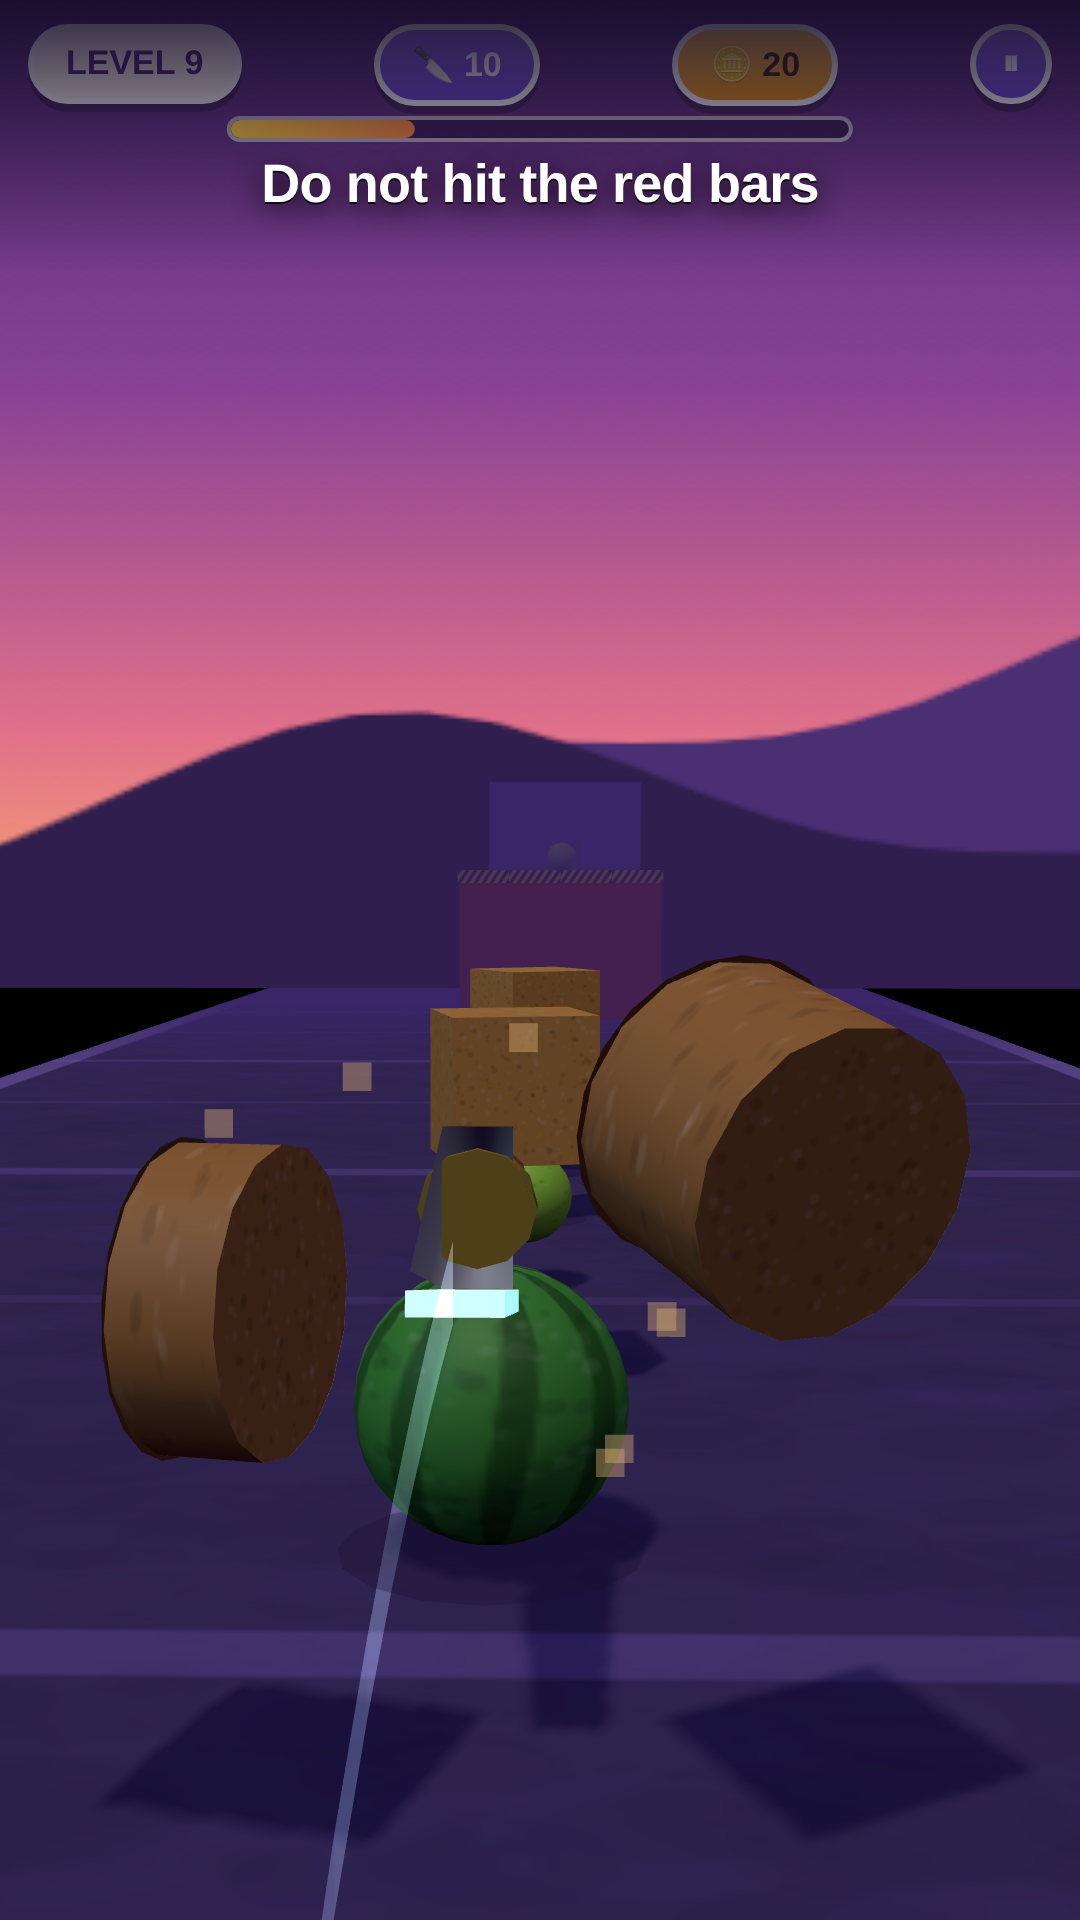
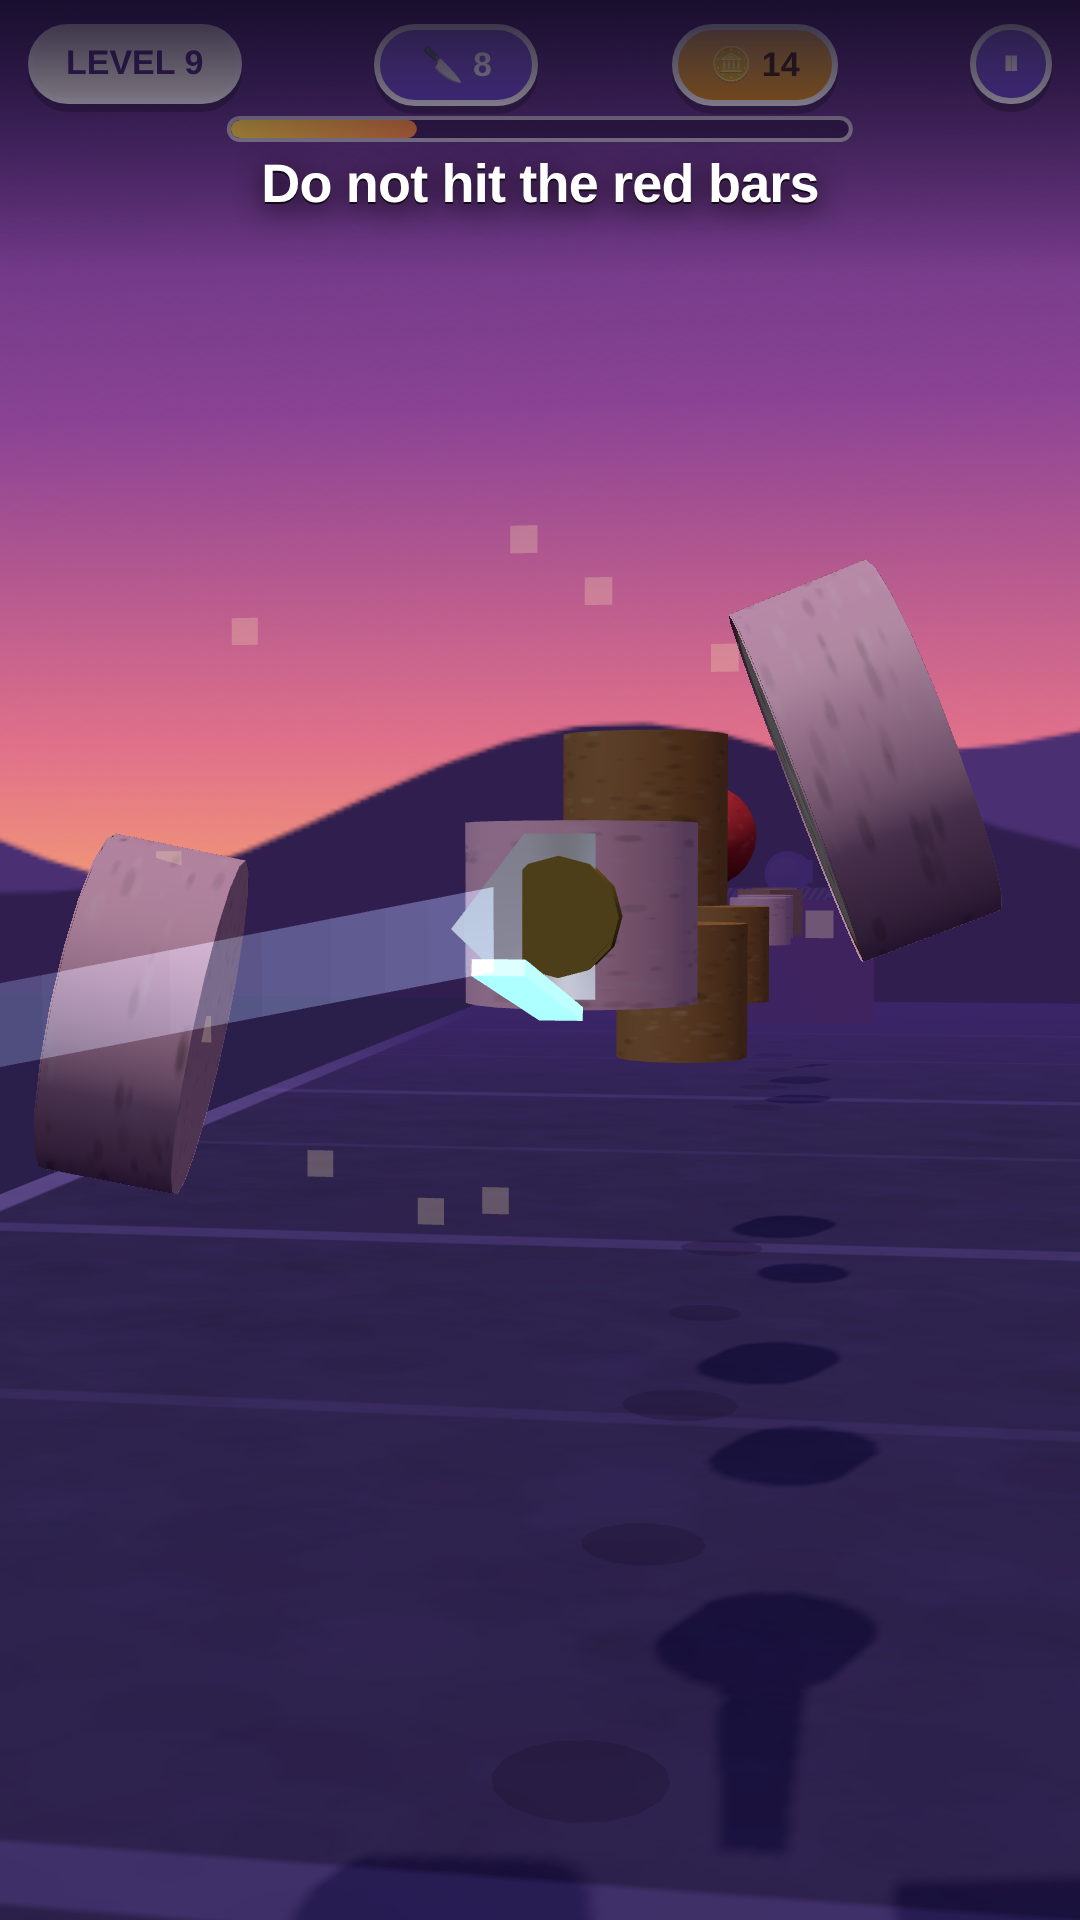
Fill the ground beside the corridor, and reshoot the store images
Moving the camera out to the side brought the area past the corridor's edge
into frame, and there is nothing there — no floor, no scene background — so a
black wedge opened along the left of every shot.

Widening the corridor itself would stretch the lane markings, since the floor
texture fits its width exactly once. A separate untextured plane underneath
closes the gap in the colour of the distant hills and leaves the corridor
alone.

Store images are rendered from this camera, so all fifteen are redone. The
cut now reads clearly: the blade, its edge, and both halves tumbling.

Claude-Session: https://claude.ai/code/session_01JC1qWREgw5F7AUsNfWCUkf

diff --git a/slicer/index.html b/slicer/index.html
@@ -497,6 +497,22 @@ floor.rotation.x = -Math.PI / 2;
 floor.receiveShadow = true;
 scene.add(floor);
 
+// Koridorun yanındaki boşluğu dolduran koyu zemin.
+//
+// Kamera bıçağın tam arkasındayken görünmüyordu; yana alınınca koridorun sol
+// kenarının ötesi ekrana girdi ve orada hiçbir şey yok — sahnenin arka plan
+// rengi de yok, yani **siyah bir kama** açıldı (mağaza görsellerinde
+// görülüyordu). Koridorun kendisini genişletmek doku ölçeğini bozardı:
+// zemin dokusu genişliğe bir kez sığıyor (repeat 1×40), yani şerit çizgileri
+// esnerdi. Ayrı ve dokusuz bir düzlem boşluğu kapatıyor, koridora
+// dokunmuyor.
+const beyond = new THREE.Mesh(
+  new THREE.PlaneGeometry(400, 900),
+  new THREE.MeshBasicMaterial({ color: '#2a1f4a', fog: false }));
+beyond.rotation.x = -Math.PI / 2;
+beyond.position.y = -0.06;
+scene.add(beyond);
+
 // Sized and placed so the bottom edge lands on the floor: the hills live in
 // the bottom of the texture, and with the plane centred higher they sat
 // underground and the horizon was a flat colour band.
@@ -1717,6 +1733,7 @@ function tick(now) {
   sun.position.set(-3.5, 19, -dist + 3);
   sun.target.position.set(0, 1.5, -dist - 5);
   floor.position.z = -dist;
+  beyond.position.z = -dist;
   floor.material.map.offset.y = dist * 0.05;
   sky.position.z = -dist - 58;
 
